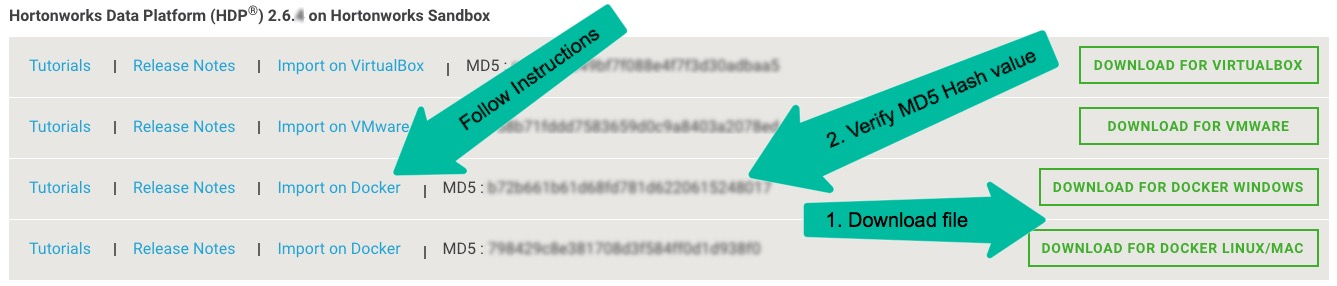
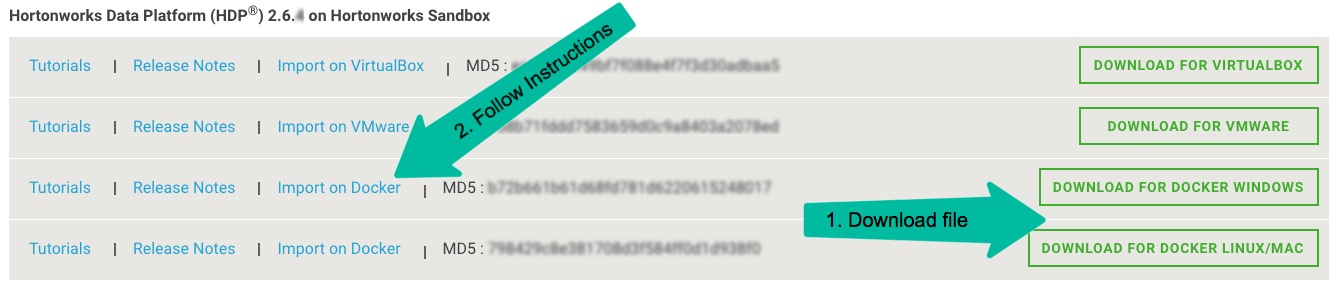
add documentation for DockerHub(HDP)

Changed region(s): [[0.552, 0.1119, 0.7973, 0.6713], [0.3067, 0.0, 0.4907, 0.5035], [0.276, 0.5315, 0.368, 0.6434]]

diff --git a/articles/documentation/dockerhub-hdp-fulldescription.md b/articles/documentation/dockerhub-hdp-fulldescription.md
@@ -6,11 +6,9 @@ The Hortonworks Sandbox is a straightforward, pre-configured, learning environme
 
 1\. download latest [Hortonworks Data Platform (HDP) for Docker](https://hortonworks.com/downloads/#sandbox).
 
-![](assets/download-sandbox-hdp-docker.jpg)
+2\. follow [Sandbox Deployment and Install Guide](https://hortonworks.com/tutorial/sandbox-deployment-and-install-guide/section/3/) tutorials
 
-2\. verify MD5 hash value
-
-3\. follow [Sandbox Deployment and Install Guide](https://hortonworks.com/tutorial/sandbox-deployment-and-install-guide/section/3/) tutorials
+![](https://raw.githubusercontent.com/hortonworks/data-tutorials/master/articles/documentation/assets/download-sandbox-hdp-docker.jpg)
 
 ## Further Assistance
 
